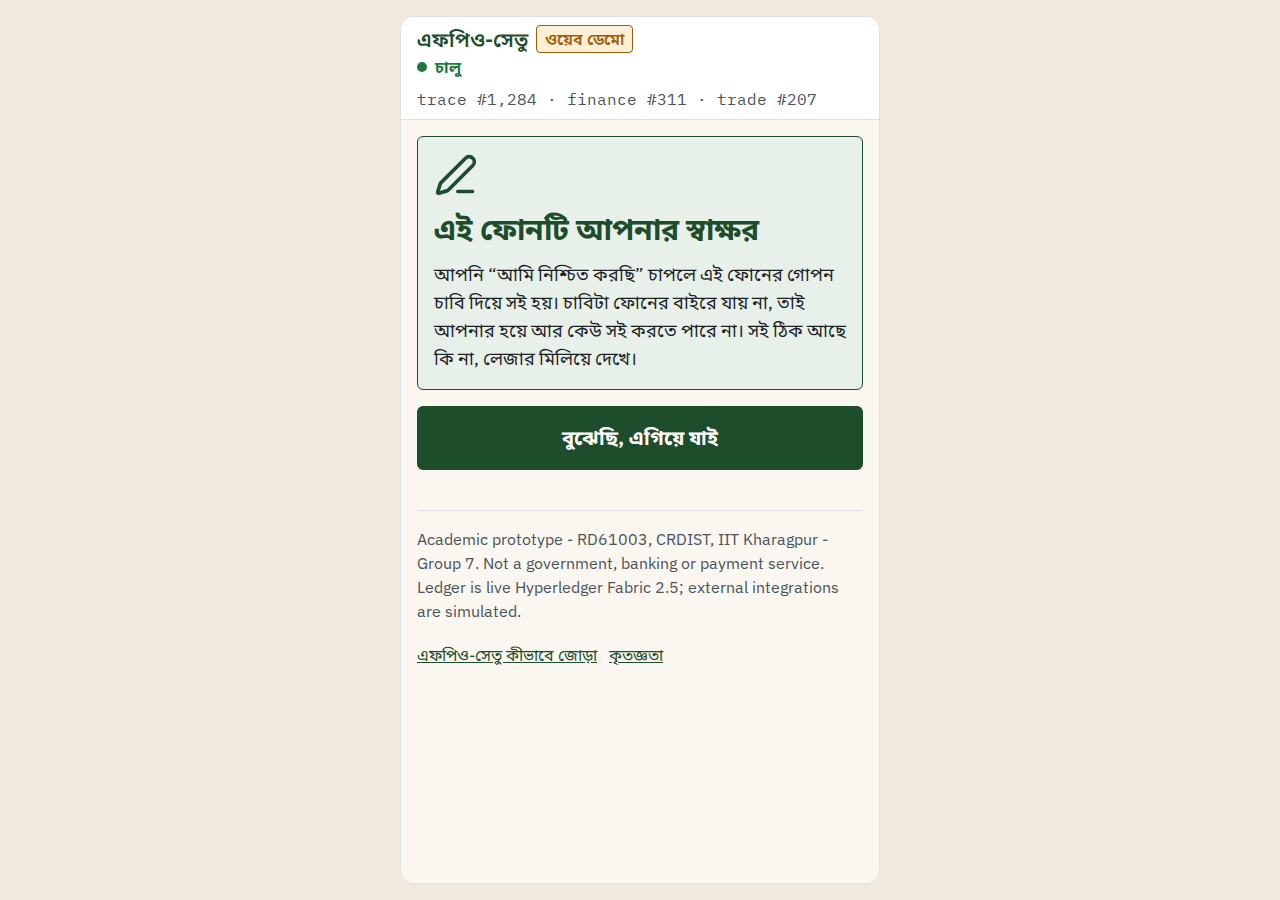
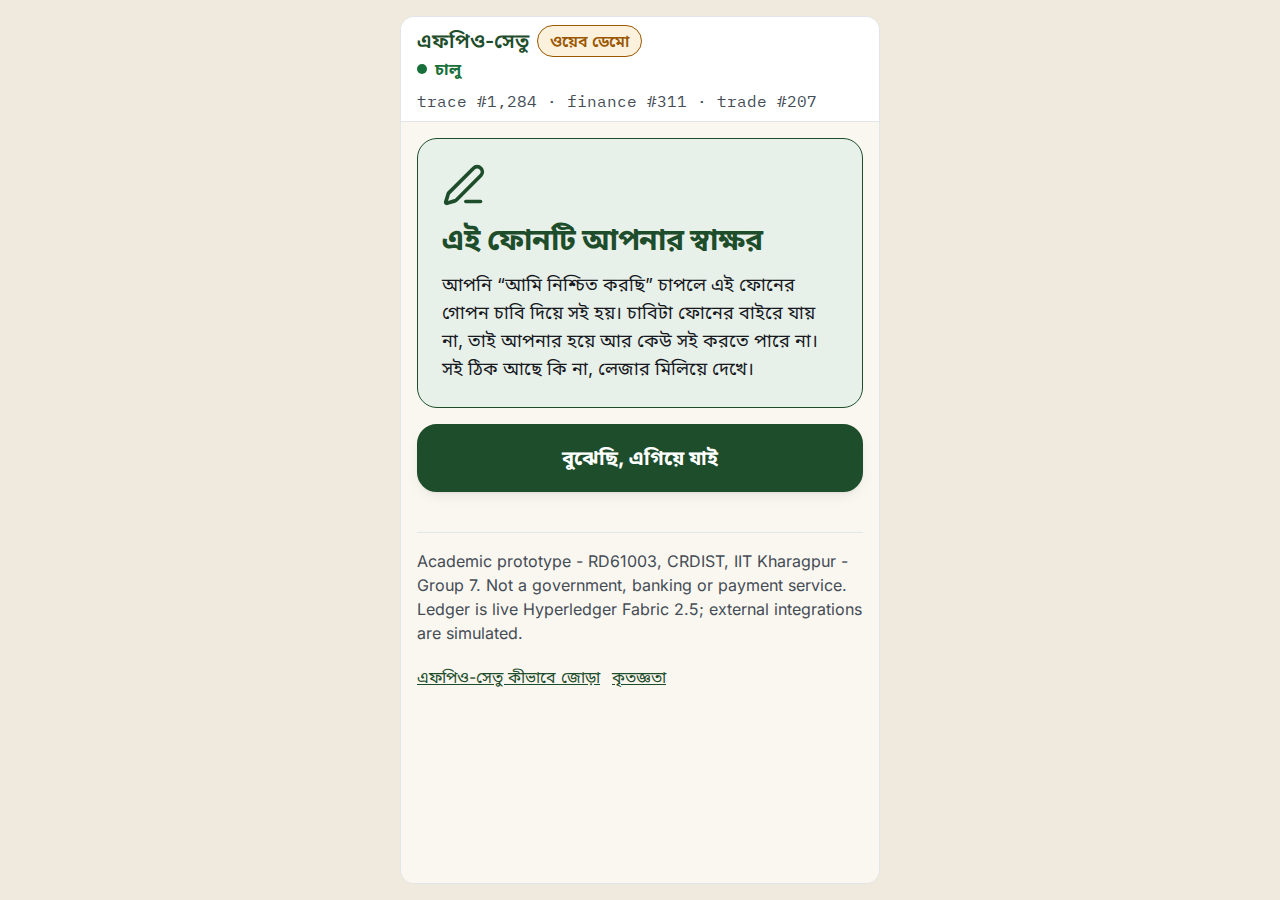
style(farmer): Inter, friendly rounded cards and pill buttons, 56px+ actions, segmented language switch, softer elevation, receipt-style statement

Changed region(s): [[0.3125, 0.0311, 0.6875, 0.56], [0.3125, 0.5911, 0.6875, 0.7778]]

diff --git a/01-farmer-app/src/styles/tokens.css b/01-farmer-app/src/styles/tokens.css
@@ -1,36 +1,137 @@
 /* Generated by scripts/sync-contract.mjs from shared/design/tokens.css. Generated, do not edit. */
-/* FPO-SETU shared design tokens. Owned by 00-core-ledger; portals copy via scripts/sync-contract.mjs.
-   Each portal sets <html data-portal="farmer|fpo|bank|buyer|consumer|gov"> to pick its accent. */
+/* FPO-SETU shared design tokens and UI primitives. Owned by 00-core-ledger; portals copy via scripts/sync-contract.mjs.
+   Each portal sets <html data-portal="farmer|fpo|bank|buyer|consumer|gov"> to pick its accent.
+   Primitives (.card .btn .chip .dtable .field .banner .skeleton) live in @layer components so Tailwind utilities can still override them. */
 :root {
-  --font-sans: "IBM Plex Sans", system-ui, sans-serif;
-  --font-mono: "IBM Plex Mono", ui-monospace, monospace;
+  --font-sans: var(--font-inter, "Inter"), ui-sans-serif, system-ui, -apple-system, "Segoe UI", Roboto, "Helvetica Neue", Arial, sans-serif;
+  --font-mono: var(--font-plex-mono, "IBM Plex Mono"), ui-monospace, "SF Mono", Menlo, Consolas, monospace;
   --font-bn: "Noto Sans Bengali", "Hind Siliguri", sans-serif;
   --font-hi: "Noto Sans Devanagari", sans-serif;
 
-  --space-1: 4px; --space-2: 8px; --space-3: 12px; --space-4: 16px; --space-5: 24px; --space-6: 32px; --space-7: 48px;
-  --radius-sm: 4px; --radius-md: 6px;
-  --text-xs: 12px; --text-sm: 14px; --text-md: 16px; --text-lg: 18px; --text-xl: 22px; --text-2xl: 28px; --text-3xl: 36px;
+  --space-1: 4px; --space-2: 8px; --space-3: 12px; --space-4: 16px; --space-5: 24px; --space-6: 32px; --space-7: 48px; --space-8: 64px;
+  --radius-sm: 6px; --radius-md: 10px; --radius-lg: 14px; --radius-xl: 20px;
+  --text-xs: 12px; --text-sm: 14px; --text-md: 16px; --text-lg: 18px; --text-xl: 22px; --text-2xl: 28px; --text-3xl: 36px; --text-4xl: 48px;
 
-  /* neutrals */
-  --ink: #1B1F23; --ink-2: #4A525A; --ink-3: #7A838C; --line: #DDE1E5; --surface: #FFFFFF; --canvas: #F6F7F8;
+  /* neutrals: --ink-2 and --ink-3 both keep 4.5:1 or better on --surface and --canvas */
+  --ink: #15181C; --ink-2: #444C56; --ink-3: #5B6470; --line: #E2E5E9; --line-strong: #C9CFD6;
+  --surface: #FFFFFF; --surface-2: #F9FAFB; --canvas: #F5F6F8;
 
   /* semantic (same meaning in every portal) */
-  --ok: #1F7A3F; --warn: #A15C00; --danger: #B42318; --info: #1F5FA8;
-  --grade-a: #1F7A3F; --grade-b: #A15C00; --grade-c: #7A3E9D;
-  --ledger-live: #1F7A3F; --ledger-index: #A15C00; --ledger-off: #B42318;
+  --ok: #17703A; --warn: #9A5700; --danger: #B42318; --info: #1D5A9E;
+  --grade-a: #17703A; --grade-b: #9A5700; --grade-c: #7A3E9D;
+  --ledger-live: #17703A; --ledger-index: #9A5700; --ledger-off: #B42318;
 
   /* accent defaults (overridden per portal) */
   --accent: #1E4D2B; --accent-2: #B5651D; --accent-ink: #FFFFFF;
+
+  /* elevation and motion */
+  --shadow-sm: 0 1px 2px rgb(16 24 40 / 0.05);
+  --shadow-md: 0 1px 2px rgb(16 24 40 / 0.05), 0 6px 16px -4px rgb(16 24 40 / 0.10);
+  --shadow-lg: 0 4px 8px -2px rgb(16 24 40 / 0.08), 0 16px 40px -8px rgb(16 24 40 / 0.18);
+  --dur: 160ms; --ease: cubic-bezier(0.2, 0.7, 0.2, 1);
 }
 [data-portal="farmer"]   { --accent: #1E4D2B; --accent-2: #B5651D; --canvas: #FAF7F0; }
 [data-portal="fpo"]      { --accent: #2F3E4C; --accent-2: #1E4D2B; --canvas: #F4F5F6; }
 [data-portal="bank"]     { --accent: #14213D; --accent-2: #3D5A80; --canvas: #F5F6F8; }
-[data-portal="buyer"]    { --accent: #24432F; --accent-2: #A67C52; --canvas: #F7F4EE; }
+[data-portal="buyer"]    { --accent: #24432F; --accent-2: #A67C52; --canvas: #F7F5F0; }
 [data-portal="consumer"] { --accent: #24432F; --accent-2: #B5651D; --canvas: #FBF9F4; }
-[data-portal="gov"]      { --accent: #0F5C5C; --accent-2: #4A525A; --canvas: #F5F6F7; }
+[data-portal="gov"]      { --accent: #0F5C5C; --accent-2: #4A525A; --canvas: #F4F6F7; }
 
 @media (prefers-color-scheme: dark) {
   [data-portal="fpo"], [data-portal="gov"], [data-portal="bank"] {
-    --ink: #E8EAED; --ink-2: #B8BEC4; --ink-3: #8A929A; --line: #2E343A; --surface: #171B1F; --canvas: #101317;
+    --ink: #E8EAED; --ink-2: #B8BEC4; --ink-3: #98A0A8; --line: #2E343A; --line-strong: #414950; --surface: #171B1F; --surface-2: #1C2126; --canvas: #101317;
+    --shadow-sm: 0 1px 2px rgb(0 0 0 / 0.4); --shadow-md: 0 6px 16px -4px rgb(0 0 0 / 0.5); --shadow-lg: 0 16px 40px -8px rgb(0 0 0 / 0.6);
   }
 }
+
+@layer base {
+  html { -webkit-text-size-adjust: 100%; text-rendering: optimizeLegibility; }
+  body { font-feature-settings: "cv11", "ss03"; }
+  h1, h2, h3 { letter-spacing: -0.015em; text-wrap: balance; line-height: 1.25; }
+  h1 { font-weight: 650; }
+  h2, h3 { font-weight: 600; }
+  p { text-wrap: pretty; }
+  ::selection { background: color-mix(in srgb, var(--accent) 22%, transparent); }
+  input:not([type="checkbox"]):not([type="radio"]):not([type="file"]), select, textarea {
+    background: var(--surface); color: var(--ink); border: 1px solid var(--line-strong); border-radius: var(--radius-sm);
+    transition: border-color var(--dur) var(--ease), box-shadow var(--dur) var(--ease);
+  }
+  input::placeholder, textarea::placeholder { color: var(--ink-3); opacity: 0.85; }
+  input:not([type="checkbox"]):not([type="radio"]):hover, select:hover, textarea:hover { border-color: var(--ink-3); }
+  input:not([type="checkbox"]):not([type="radio"]):focus-visible, select:focus-visible, textarea:focus-visible {
+    outline: none; border-color: var(--accent-text, var(--accent)); box-shadow: 0 0 0 3px color-mix(in srgb, var(--accent-text, var(--accent)) 24%, transparent);
+  }
+  label { color: var(--ink); }
+}
+
+@layer components {
+  .card { background: var(--surface); border: 1px solid var(--line); border-radius: var(--radius-lg); box-shadow: var(--shadow-sm); }
+  .card-flat { box-shadow: none; }
+  .mono { font-family: var(--font-mono); font-size: 0.875em; letter-spacing: -0.01em; }
+  .eyebrow { font-size: var(--text-xs); letter-spacing: 0.08em; text-transform: uppercase; color: var(--ink-3); font-weight: 600; }
+
+  /* Badge / status chip */
+  .chip {
+    display: inline-flex; align-items: center; gap: 5px; padding: 2px 9px; border-radius: 999px; line-height: 1.5;
+    border: 1px solid var(--line); font-size: var(--text-xs); font-weight: 550; color: var(--ink-2); white-space: nowrap; background: var(--surface-2);
+  }
+  .chip[data-tone="ok"]     { color: var(--ok-text, var(--ok)); border-color: color-mix(in srgb, var(--ok-text, var(--ok)) 30%, transparent); background: color-mix(in srgb, var(--ok-text, var(--ok)) 9%, var(--surface)); }
+  .chip[data-tone="warn"]   { color: var(--warn-text, var(--warn)); border-color: color-mix(in srgb, var(--warn-text, var(--warn)) 32%, transparent); background: color-mix(in srgb, var(--warn-text, var(--warn)) 9%, var(--surface)); }
+  .chip[data-tone="danger"] { color: var(--danger-text, var(--danger)); border-color: color-mix(in srgb, var(--danger-text, var(--danger)) 30%, transparent); background: color-mix(in srgb, var(--danger-text, var(--danger)) 8%, var(--surface)); }
+  .chip[data-tone="info"]   { color: var(--info-text, var(--info)); border-color: color-mix(in srgb, var(--info-text, var(--info)) 30%, transparent); background: color-mix(in srgb, var(--info-text, var(--info)) 8%, var(--surface)); }
+  .chip[data-tone="accent"] { color: var(--accent-text, var(--accent)); border-color: color-mix(in srgb, var(--accent-text, var(--accent)) 30%, transparent); background: color-mix(in srgb, var(--accent-text, var(--accent)) 9%, var(--surface)); }
+  .chip-lg { padding: 4px 12px; font-size: var(--text-sm); }
+
+  /* Table */
+  .dtable { width: 100%; border-collapse: separate; border-spacing: 0; font-size: var(--text-sm); }
+  .dtable th {
+    text-align: left; font-weight: 600; color: var(--ink-2); font-size: 11.5px; letter-spacing: 0.06em; text-transform: uppercase;
+    padding: 10px 14px; border-bottom: 1px solid var(--line); background: var(--surface-2); white-space: nowrap;
+  }
+  .dtable td { padding: 12px 14px; border-bottom: 1px solid var(--line); vertical-align: top; }
+  .dtable tbody tr { transition: background-color var(--dur) var(--ease); }
+  .dtable tbody tr:last-child td { border-bottom: 0; }
+  .dtable tbody tr:hover { background: color-mix(in srgb, var(--accent-text, var(--accent)) 4.5%, var(--surface)); }
+  .card > .scroll-x:first-child > .dtable th:first-child, .card.scroll-x > .dtable th:first-child { border-top-left-radius: var(--radius-lg); }
+  .card.scroll-x > .dtable th:last-child { border-top-right-radius: var(--radius-lg); }
+  .card.scroll-x { overflow-x: auto; }
+
+  /* Button */
+  .btn {
+    display: inline-flex; align-items: center; justify-content: center; gap: 8px; min-height: 40px; padding: 0 16px; border-radius: var(--radius-sm);
+    border: 1px solid var(--line-strong); background: var(--surface); color: var(--ink); font-weight: 550; font-size: var(--text-sm); line-height: 1.2;
+    cursor: pointer; box-shadow: var(--shadow-sm); text-decoration: none;
+    transition: background-color var(--dur) var(--ease), border-color var(--dur) var(--ease), box-shadow var(--dur) var(--ease), transform var(--dur) var(--ease);
+  }
+  .btn:hover { border-color: var(--ink-3); background: var(--surface-2); }
+  .btn:active { transform: translateY(0.5px); }
+  .btn[data-variant="primary"] { background: var(--accent); border-color: var(--accent); color: var(--accent-ink); }
+  .btn[data-variant="primary"]:hover { background: color-mix(in srgb, var(--accent) 86%, black); border-color: color-mix(in srgb, var(--accent) 86%, black); }
+  .btn[data-variant="ghost"] { background: transparent; border-color: transparent; box-shadow: none; color: var(--accent-text, var(--accent)); }
+  .btn[data-variant="ghost"]:hover { background: color-mix(in srgb, var(--accent-text, var(--accent)) 8%, transparent); }
+  .btn[data-variant="danger"] { background: var(--surface); border-color: color-mix(in srgb, var(--danger-text, var(--danger)) 55%, transparent); color: var(--danger-text, var(--danger)); }
+  .btn[data-variant="danger"]:hover { background: color-mix(in srgb, var(--danger-text, var(--danger)) 8%, var(--surface)); }
+  .btn[data-variant="danger-solid"] { background: var(--danger); border-color: var(--danger); color: #fff; }
+  .btn:disabled, .btn[aria-disabled="true"] { opacity: 0.5; cursor: not-allowed; box-shadow: none; transform: none; }
+
+  /* Form field helper */
+  input.field, select.field, textarea.field { min-height: 40px; width: 100%; padding: 0 12px; font-size: var(--text-sm); }
+  textarea.field { padding: 10px 12px; }
+
+  /* Banners: index-only, mock, offline */
+  .banner { border-bottom: 1px solid var(--line); padding: 8px 16px; text-align: center; font-size: var(--text-sm); background: var(--surface); color: var(--ink-2); }
+  .banner[data-tone="warn"]   { background: color-mix(in srgb, var(--warn-text, var(--warn)) 10%, var(--surface)); border-color: color-mix(in srgb, var(--warn-text, var(--warn)) 30%, transparent); color: var(--ink); }
+  .banner[data-tone="danger"] { background: color-mix(in srgb, var(--danger-text, var(--danger)) 9%, var(--surface)); border-color: color-mix(in srgb, var(--danger-text, var(--danger)) 30%, transparent); color: var(--ink); }
+  .banner[data-tone="muted"]  { font-size: var(--text-xs); padding: 6px 16px; background: var(--surface-2); }
+  .note { border: 1px solid var(--line); border-radius: var(--radius-md); padding: 10px 14px; background: var(--surface); font-size: var(--text-sm); }
+  .note[data-tone="warn"] { background: color-mix(in srgb, var(--warn-text, var(--warn)) 9%, var(--surface)); border-color: color-mix(in srgb, var(--warn-text, var(--warn)) 30%, transparent); }
+  .note[data-tone="danger"] { background: color-mix(in srgb, var(--danger-text, var(--danger)) 8%, var(--surface)); border-color: color-mix(in srgb, var(--danger-text, var(--danger)) 32%, transparent); }
+
+  /* Loading */
+  .skeleton { background: linear-gradient(90deg, var(--line), color-mix(in srgb, var(--line) 35%, transparent), var(--line)); background-size: 200% 100%; animation: shimmer 1.4s linear infinite; border-radius: var(--radius-sm); }
+
+  /* Overlay surfaces: dialog, toast */
+  .overlay-card { background: var(--surface); border: 1px solid var(--line); border-radius: var(--radius-xl); box-shadow: var(--shadow-lg); }
+}
+@keyframes shimmer { to { background-position: -200% 0; } }
+@media (prefers-reduced-motion: reduce) { .btn, .chip, .dtable tbody tr, input, select, textarea { transition: none; } .skeleton { animation: none; } }

diff --git a/01-farmer-app/src/components/ui.tsx b/01-farmer-app/src/components/ui.tsx
@@ -1,6 +1,6 @@
 import type { ReactNode } from 'react';
 import { ActivityIndicator, Pressable, ScrollView, StyleSheet, Text, View, type StyleProp, type TextProps, type TextStyle, type ViewProps, type ViewStyle } from 'react-native';
-import { color, FONT_MONO, FONT_SANS, MIN_TOUCH, radius, size, space, TABULAR } from '../theme';
+import { color, FONT_MONO, FONT_SANS, MIN_TOUCH, radius, shadow, size, space, TABULAR } from '../theme';
 
 type Variant = 'body' | 'small' | 'title' | 'lg' | 'xl' | 'money' | 'mono' | 'label';
 const variants: Record<Variant, TextStyle> = {
@@ -9,7 +9,7 @@ const variants: Record<Variant, TextStyle> = {
   label: { fontSize: size.small, lineHeight: 22, color: color.ink2, fontWeight: '600' },
   lg: { fontSize: size.lg, lineHeight: 30, color: color.ink, fontWeight: '600' },
   xl: { fontSize: size.xl, lineHeight: 34, color: color.ink, fontWeight: '700' },
-  title: { fontSize: size.xxl, lineHeight: 40, color: color.accent, fontWeight: '700' },
+  title: { fontSize: size.xxl, lineHeight: 40, color: color.accent, fontWeight: '700', letterSpacing: -0.3 },
   money: { fontSize: size.money, lineHeight: 52, color: color.accent, fontWeight: '800', ...TABULAR },
   mono: { fontSize: size.small, lineHeight: 24, color: color.ink2, fontFamily: FONT_MONO },
 };
@@ -24,7 +24,7 @@ export function Num({ children, style, v = 'lg', ...rest }: { children: ReactNod
 export function Card({ children, style, tone, ...rest }: { children: ReactNode; style?: StyleProp<ViewStyle>; tone?: 'warn' | 'ok' | 'info' | 'accent' } & Omit<ViewProps, 'style'>) {
   const bg = tone === 'warn' ? color.warnBg : tone === 'ok' ? color.okBg : tone === 'info' ? color.infoBg : tone === 'accent' ? color.accentBg : color.surface;
   const bd = tone === 'warn' ? color.warn : tone === 'ok' ? color.ok : tone === 'info' ? color.info : tone === 'accent' ? color.accent : color.line;
-  return <View {...rest} style={[styles.card, { backgroundColor: bg, borderColor: bd }, style]}>{children}</View>;
+  return <View {...rest} style={[styles.card, tone ? null : shadow, { backgroundColor: bg, borderColor: bd }, style]}>{children}</View>;
 }
 
 export function Chip({ label, tone = 'neutral' }: { label: string; tone?: 'ok' | 'warn' | 'danger' | 'info' | 'neutral' }) {
@@ -48,7 +48,7 @@ export function Button({ label, onPress, icon, variant = 'primary', disabled, bu
     <Pressable
       accessibilityRole="button" accessibilityLabel={label} accessibilityHint={hint} accessibilityState={{ disabled: !!off, busy: !!busy }} testID={testID}
       disabled={!!off} onPress={off ? undefined : onPress}
-      style={({ pressed }) => [styles.btn, { backgroundColor: bg, borderColor: bd, minHeight: big ? 64 : MIN_TOUCH + 4, opacity: off ? 0.5 : pressed ? 0.85 : 1 }]}
+      style={({ pressed }) => [styles.btn, { backgroundColor: bg, borderColor: bd, minHeight: big ? 68 : MIN_TOUCH + 8, opacity: off ? 0.5 : pressed ? 0.88 : 1 }, variant === 'primary' && !off ? shadow : null]}
     >
       {busy ? <ActivityIndicator color={fg} /> : icon}
       <Txt v={big ? 'lg' : 'body'} style={{ color: fg, fontWeight: '700', flexShrink: 1, textAlign: 'center' }}>{label}</Txt>
@@ -76,7 +76,7 @@ export function CardSkeleton() {
 
 export function Page({ children, footer }: { children: ReactNode; footer?: ReactNode }) {
   return (
-    <ScrollView style={{ flex: 1, backgroundColor: color.canvas }} contentContainerStyle={{ padding: space.s4, gap: space.s4, paddingBottom: space.s6 }} keyboardShouldPersistTaps="handled">
+    <ScrollView style={{ flex: 1, backgroundColor: color.canvas }} contentContainerStyle={{ padding: space.s4, gap: space.s4, paddingBottom: space.s7, width: '100%', maxWidth: 640, alignSelf: 'center' }} keyboardShouldPersistTaps="handled">
       {children}
       {footer}
     </ScrollView>
@@ -84,7 +84,7 @@ export function Page({ children, footer }: { children: ReactNode; footer?: React
 }
 
 const styles = StyleSheet.create({
-  card: { borderWidth: 1, borderRadius: radius.md, padding: space.s4, gap: space.s2 },
-  chip: { alignSelf: 'flex-start', borderWidth: 1, borderRadius: radius.sm, paddingHorizontal: space.s2, paddingVertical: 2 },
-  btn: { flexDirection: 'row', alignItems: 'center', justifyContent: 'center', gap: space.s2, borderWidth: 2, borderRadius: radius.md, paddingHorizontal: space.s4, paddingVertical: space.s2 },
+  card: { borderWidth: 1, borderRadius: radius.lg, padding: space.s5, gap: space.s3 },
+  chip: { alignSelf: 'flex-start', borderWidth: 1, borderRadius: radius.pill, paddingHorizontal: space.s3, paddingVertical: 4 },
+  btn: { flexDirection: 'row', alignItems: 'center', justifyContent: 'center', gap: space.s3, borderWidth: 2, borderRadius: radius.lg, paddingHorizontal: space.s5, paddingVertical: space.s3 },
 });

diff --git a/01-farmer-app/src/components/chrome.tsx b/01-farmer-app/src/components/chrome.tsx
@@ -7,7 +7,7 @@ import { FOOTER_TEXT, type Commodity } from '../contract/contract';
 import { LANGS, setLang } from '../i18n';
 import { getConn, subscribeConn } from '../lib/api';
 import { useLive } from '../lib/live';
-import { color, MIN_TOUCH, radius, space } from '../theme';
+import { color, MIN_TOUCH, radius, shadow, space } from '../theme';
 import { Row, Txt } from './ui';
 import { Carrot, Sprout, Wheat } from 'lucide-react-native';
 
@@ -50,14 +50,14 @@ export function OfflineBanner() {
 export function LanguageSwitch() {
   const { i18n, t } = useTranslation();
   return (
-    <Row style={{ gap: space.s1 }} accessibilityLabel={t('common.language')}>
-      <Languages color={color.ink2} size={20} />
+    <Row style={{ gap: space.s2, flexWrap: 'wrap' }} accessibilityLabel={t('common.language')}>
+      <Languages color={color.ink2} size={22} />
       {LANGS.map((l) => {
         const on = i18n.language === l.code;
         return (
           <Pressable key={l.code} onPress={() => setLang(l.code)} accessibilityRole="button" accessibilityState={{ selected: on }} accessibilityLabel={l.native}
-            style={{ minHeight: MIN_TOUCH, minWidth: 44, alignItems: 'center', justifyContent: 'center', paddingHorizontal: space.s2, borderBottomWidth: 3, borderBottomColor: on ? color.accent2 : 'transparent' }}>
-            <Txt v="small" style={{ color: on ? color.accent : color.ink2, fontWeight: on ? '700' : '500' }}>{l.native}</Txt>
+            style={{ minHeight: MIN_TOUCH, minWidth: 64, alignItems: 'center', justifyContent: 'center', paddingHorizontal: space.s4, borderRadius: radius.pill, borderWidth: 2, borderColor: on ? color.accent : color.line, backgroundColor: on ? color.accent : color.surface }}>
+            <Txt v="small" style={{ color: on ? color.accentInk : color.ink, fontWeight: '700' }}>{l.native}</Txt>
           </Pressable>
         );
       })}
@@ -72,7 +72,7 @@ export function ActivityToasts() {
   return (
     <View style={{ position: 'absolute', left: space.s3, right: space.s3, bottom: space.s4, gap: space.s2, zIndex: 50 }} pointerEvents="box-none" accessibilityLiveRegion="polite">
       {toasts.map((x) => (
-        <Row key={x.id} style={{ backgroundColor: color.accent, borderRadius: radius.md, padding: space.s3, alignItems: 'flex-start' }} testID="toast">
+        <Row key={x.id} style={[{ backgroundColor: color.accent, borderRadius: radius.lg, padding: space.s4, alignItems: 'flex-start', boxShadow: '0 8px 24px -6px rgba(16,24,40,0.35)' }]} testID="toast">
           <View style={{ flex: 1 }}>
             <Txt style={{ color: color.accentInk, fontWeight: '600' }}>{x.text}</Txt>
             <Txt v="mono" style={{ color: '#DCE8DF' }}>tx {x.txId.slice(0, 8)}…</Txt>
@@ -104,7 +104,7 @@ export function ScreenHeader({ title, back = true, right }: { title: string; bac
   const router = useRouter();
   const { t } = useTranslation();
   return (
-    <Row style={{ backgroundColor: color.accent, paddingHorizontal: space.s2, minHeight: 60 }}>
+    <Row style={{ backgroundColor: color.accent, paddingHorizontal: space.s2, minHeight: 64 }}>
       {back ? (
         <Pressable onPress={() => (router.canGoBack() ? router.back() : router.replace('/home'))} accessibilityRole="button" accessibilityLabel={t('common.back')} style={{ minWidth: MIN_TOUCH, minHeight: MIN_TOUCH, alignItems: 'center', justifyContent: 'center' }}>
           <ArrowLeft color={color.accentInk} size={26} />

diff --git a/01-farmer-app/app/statement/[sscc].tsx b/01-farmer-app/app/statement/[sscc].tsx
@@ -13,9 +13,9 @@ import { formatINR, formatKg, formatPlainDate } from '../../src/lib/format';
 import type { Lang } from '../../src/lib/numberWords';
 import { planRead, speakLines, type ReadHandle, type ReadPlan } from '../../src/lib/speech';
 import { commodityFromRef, statementScript } from '../../src/lib/statementScript';
-import { color, radius, space } from '../../src/theme';
+import { color, radius, shadow, space } from '../../src/theme';
 
-const lineBox = (on: boolean) => ({ paddingVertical: space.s2, paddingHorizontal: space.s2, borderRadius: radius.sm, backgroundColor: on ? color.warnBg : 'transparent' });
+const lineBox = (on: boolean) => ({ paddingVertical: space.s3, paddingHorizontal: space.s2, borderRadius: radius.sm, backgroundColor: on ? color.warnBg : 'transparent' });
 
 export default function StatementDetail() {
   const { sscc } = useLocalSearchParams<{ sscc: string }>();
@@ -89,7 +89,7 @@ export default function StatementDetail() {
               <Txt v="small">{t('statement.buyer')}: {s.buyerType}</Txt>
             </Card>
 
-            <View style={[{ backgroundColor: color.accent, borderRadius: radius.md, padding: space.s4, gap: space.s1 }, lineBox(active === 'net') && { backgroundColor: color.accent }]} testID="net-card">
+            <View style={[{ backgroundColor: color.accent, borderRadius: radius.lg, padding: space.s5, gap: space.s1, ...shadow }, lineBox(active === 'net') && { backgroundColor: color.accent }]} testID="net-card">
               <Txt v="label" style={{ color: '#DCE8DF' }}>{t('statement.net')}</Txt>
               <Num v="money" style={{ color: color.accentInk }} testID="net-amount">{formatINR(s.net)}</Num>
               {s.paidOn ? <Txt style={{ color: color.accentInk }}>{t('statement.paidOn')}: {formatPlainDate(s.paidOn)}</Txt> : <Txt style={{ color: color.accentInk }}>{t('statement.notPaid')}</Txt>}

diff --git a/01-farmer-app/src/theme.ts b/01-farmer-app/src/theme.ts
@@ -2,17 +2,19 @@ import type { TextStyle } from 'react-native';
 
 /** Farmer theme: potato-skin ochre on deep paddy green, paper canvas. Values mirror shared/design/tokens.css ([data-portal="farmer"]); src/theme.test.ts checks they still do. */
 export const color = {
-  ink: '#1B1F23', ink2: '#4A525A', ink3: '#7A838C', line: '#DDE1E5', surface: '#FFFFFF', canvas: '#FAF7F0',
-  ok: '#1F7A3F', warn: '#A15C00', danger: '#B42318', info: '#1F5FA8',
+  ink: '#15181C', ink2: '#444C56', ink3: '#5B6470', line: '#E2E5E9', surface: '#FFFFFF', canvas: '#FAF7F0',
+  ok: '#17703A', warn: '#9A5700', danger: '#B42318', info: '#1D5A9E',
   accent: '#1E4D2B', accent2: '#B5651D', accentInk: '#FFFFFF',
-  okBg: '#E7F3EB', warnBg: '#FBEFD9', dangerBg: '#FBE7E4', infoBg: '#E6EEF8', accentBg: '#E8F0EA',
+  okBg: '#E6F3EA', warnBg: '#FCF1DC', dangerBg: '#FCE9E6', infoBg: '#E7EFF9', accentBg: '#E8F0EA',
 };
 export const space = { s1: 4, s2: 8, s3: 12, s4: 16, s5: 24, s6: 32, s7: 48 };
-export const radius = { sm: 4, md: 6 };
+export const radius = { sm: 8, md: 14, lg: 20, pill: 999 };
+/** Soft elevation for cards and buttons (react-native-web renders this as CSS box-shadow). */
+export const shadow = { boxShadow: '0 1px 2px rgba(16,24,40,0.05), 0 6px 16px -6px rgba(16,24,40,0.12)' } as const;
 /** The app never goes below 16 sp. Bengali primary content is 18 sp. */
 export const size = { small: 16, body: 18, lg: 20, xl: 24, xxl: 30, money: 40 };
 
-export const FONT_SANS = '"IBM Plex Sans","Noto Sans Bengali","Noto Sans Devanagari",system-ui,sans-serif';
+export const FONT_SANS = '"Inter","Noto Sans Bengali","Noto Sans Devanagari",system-ui,sans-serif';
 export const FONT_MONO = '"IBM Plex Mono","Noto Sans Bengali","Noto Sans Devanagari",ui-monospace,monospace';
 export const TABULAR: TextStyle = { fontVariant: ['tabular-nums'] };
 export const MIN_TOUCH = 48;

diff --git a/01-farmer-app/public/index.html b/01-farmer-app/public/index.html
@@ -5,10 +5,10 @@
     <meta http-equiv="X-UA-Compatible" content="IE=edge" />
     <meta name="viewport" content="width=device-width, initial-scale=1, shrink-to-fit=no" />
     <title>%WEB_TITLE%</title>
-    <!-- Fonts (CONTRACT.md section 10): IBM Plex Sans/Mono, Noto Sans Bengali, Noto Sans Devanagari. -->
+    <!-- Fonts (CONTRACT.md section 10): Inter, IBM Plex Mono, Noto Sans Bengali, Noto Sans Devanagari. -->
     <link rel="preconnect" href="https://fonts.googleapis.com" />
     <link rel="preconnect" href="https://fonts.gstatic.com" crossorigin />
-    <link rel="stylesheet" href="https://fonts.googleapis.com/css2?family=IBM+Plex+Mono:wght@400;600&family=IBM+Plex+Sans:wght@400;500;600;700&family=Noto+Sans+Bengali:wght@400;500;600;700;800&family=Noto+Sans+Devanagari:wght@400;500;600;700&display=swap" />
+    <link rel="stylesheet" href="https://fonts.googleapis.com/css2?family=IBM+Plex+Mono:wght@400;600&family=Inter:wght@400;500;600;700;800&family=Noto+Sans+Bengali:wght@400;500;600;700;800&family=Noto+Sans+Devanagari:wght@400;500;600;700&display=swap" />
     <style id="expo-reset">
       html, body { height: 100%; margin: 0; background: #EFEADD; }
       body { overflow: hidden; }

diff --git a/01-farmer-app/app/login.tsx b/01-farmer-app/app/login.tsx
@@ -12,7 +12,7 @@ import { useSession } from '../src/lib/session';
 import { color, FONT_MONO, MIN_TOUCH, radius, size, space } from '../src/theme';
 
 const input = {
-  minHeight: MIN_TOUCH + 8, borderWidth: 2, borderColor: color.accent, borderRadius: radius.md, paddingHorizontal: space.s4,
+  minHeight: MIN_TOUCH + 12, borderWidth: 2, borderColor: color.accent, borderRadius: radius.lg, paddingHorizontal: space.s5,
   fontSize: size.lg, color: color.ink, backgroundColor: color.surface, fontFamily: FONT_MONO,
 } as const;
 
